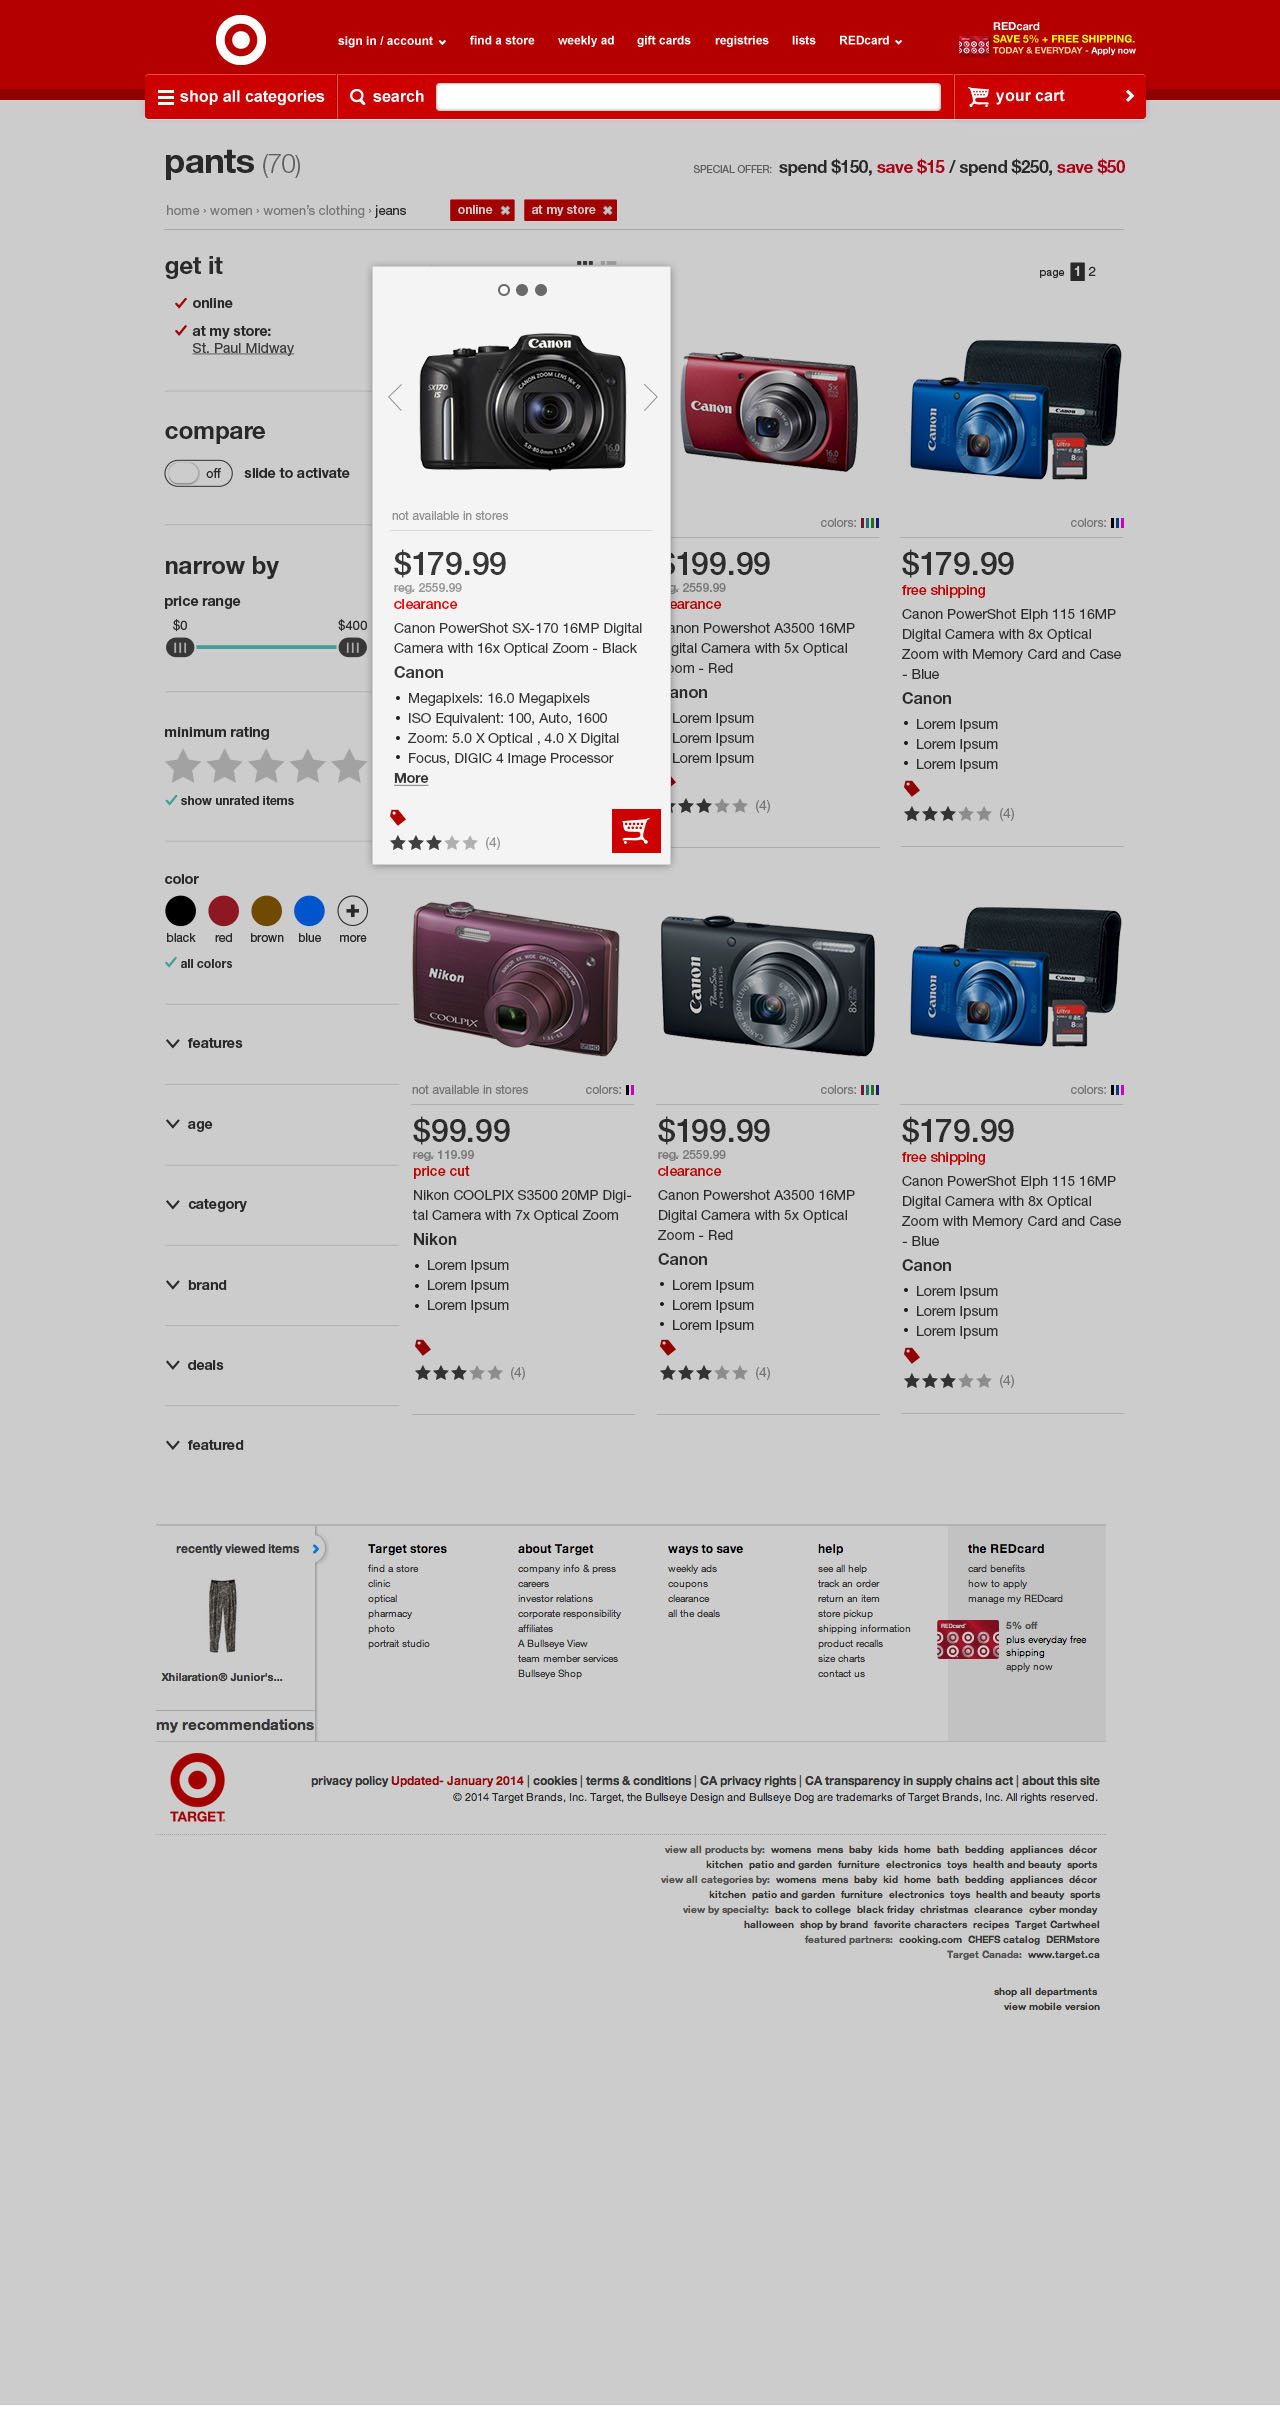
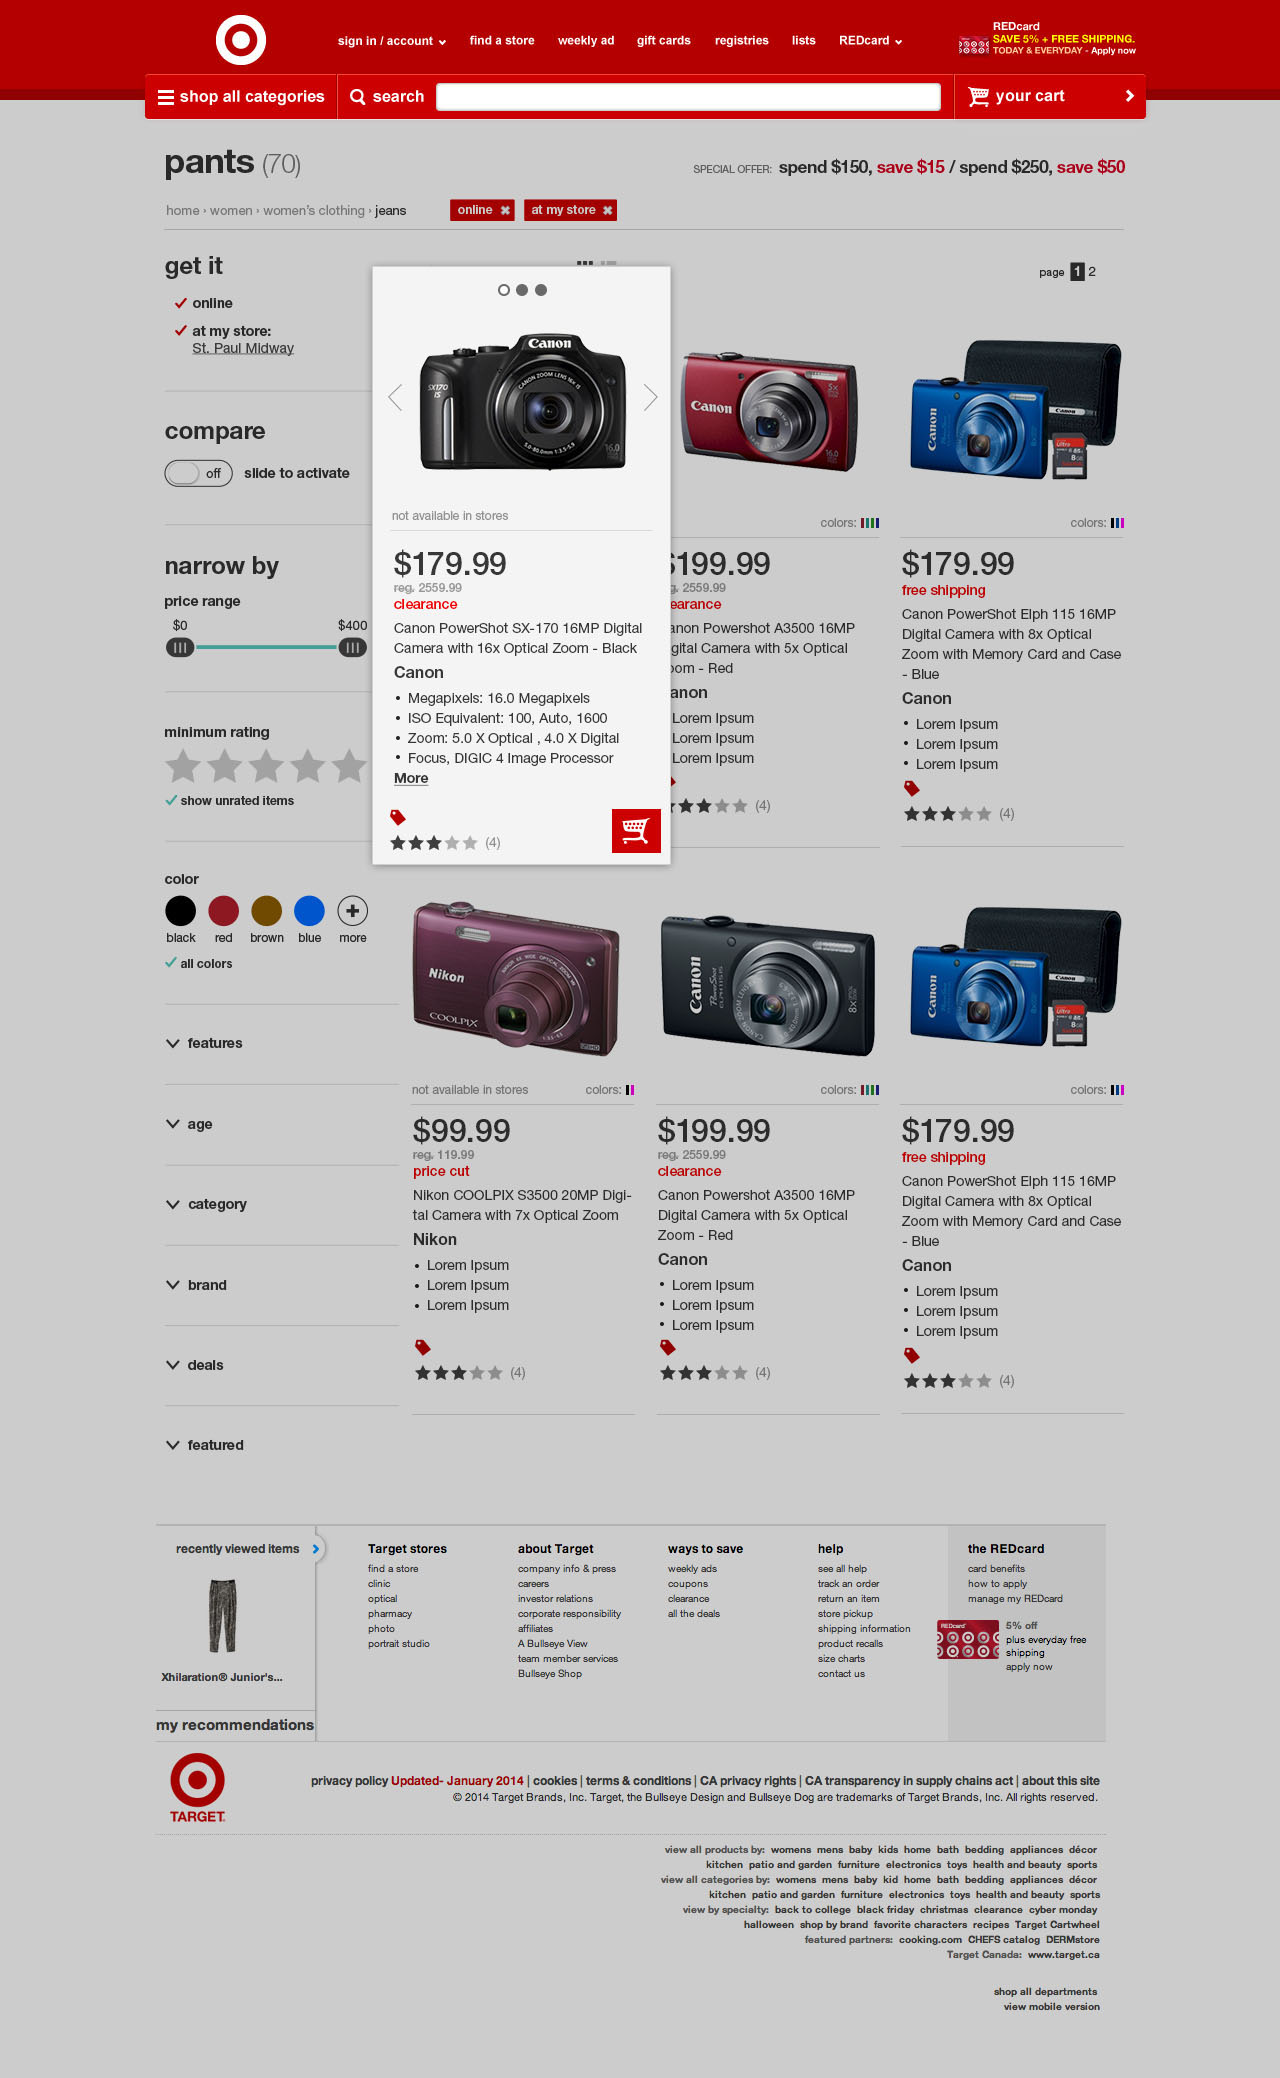
added new screenshots

diff --git a/tiles-add2cart.html b/tiles-add2cart.html
@@ -24,3 +24,10 @@ title: Tiles - Add 2 Cart
 	    <img src="{{ site.baseurl }}/mockup-files/plp-tiles-minimal-add2cart-selected.jpg" alt="" />
 	  </div>
 	</div>
+
+	<div class="row">
+	  <div class="large-12 columns">
+	    <h3 class="text-center">Tiles Add 2 Cart - Feedback Message when no selection is needed</h3>
+	    <img src="{{ site.baseurl }}/mockup-files/plp-tiles-add2cart-feedbackmessage.jpg" alt="" />
+	  </div>
+	</div>
